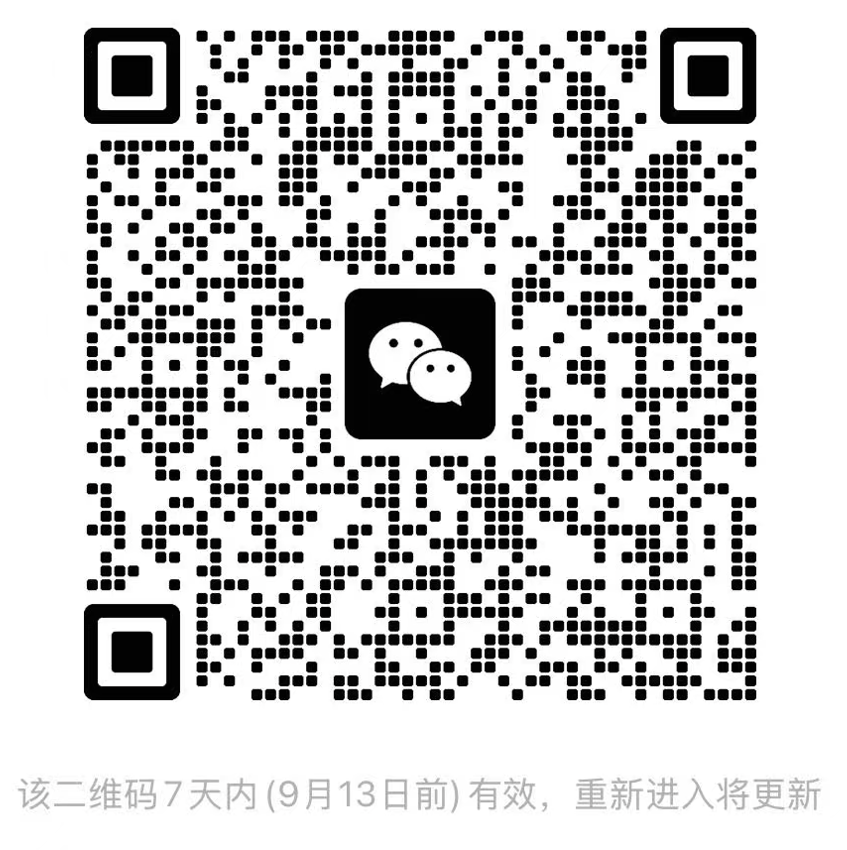
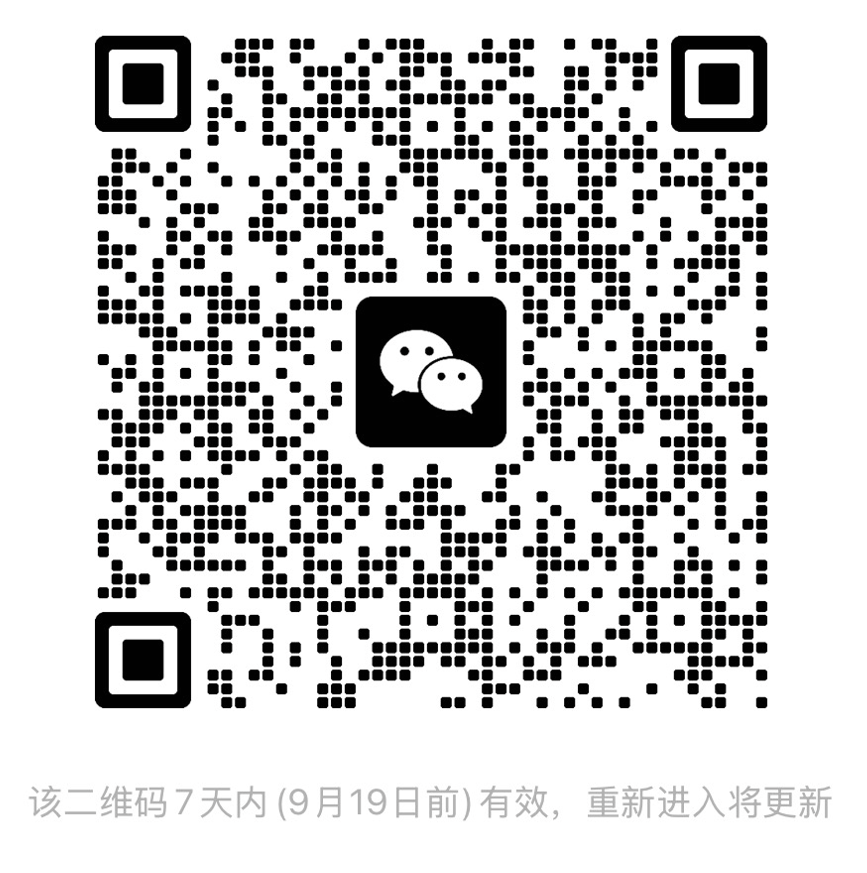
docs: 同步更新中英文 README 与 FAQ 文档
1. README & README_EN：增补元数据物理巡检与 Schema 漂移治理精炼摘要（直连体检零 Token 消耗、报错自愈反哺、整表缺失与类型校准）；
2. README & README_EN：对齐云原生 K8s Pod 安全沙箱特性（免 Docker Socket、PVC subPath 隔离、浮标秒级监控）；
3. README & README_EN：增补双向 MCP 开放插件生态（出站调用自动透传当前用户身份上下文保障多租户隔离，入站提供 NanZi Platform MCP 资源服务与 OAuth2 服务台）；
4. FAQ：新增 4.2.10 元数据物理结构巡检与 Schema 漂移闭环治理专题，补全 7.3.6 K8s 沙箱输入框 Pod 浮标与一键 RBAC 权限自检指南；
5. 更新社区微信群二维码资源。

diff --git a/README_EN.md b/README_EN.md
@@ -21,14 +21,14 @@
 
 The platform revolves around the following core capability matrix:
 *   💬 **Deep Interactive Dialogue**: High-performance streaming chat with **intelligent delegation through the default Main agent**, **expert mode / @mention direct selection**, and multi-agent synthesis. **Tool preflight** nudges the model to call tools; integrated `ask_user_question` smart cards (single/multi-choice, text input), **Todo task lists** with step-by-step progress tracking, and skill auto-scan with permission suspend/resume.
-*   🛡 **Multi-Policy Sandbox & Isolation**: Native support for **Local** (host process), **Docker** (isolated private container), **E2B** (cloud sandbox), and **SSH** (remote secure channel) policies. Docker containers mount user workspaces at **identical absolute paths** for seamless canvas preview and edit persistence; idle auto-reaper (30m timeout), graceful shutdown cleanup, and chat popover control with **live second-by-second uptime tracking**.
+*   🛡 **Multi-Policy Sandbox & Isolation**: Native support for **Local** (host process), **Docker** (isolated private container), **K8s** (Kubernetes native Pod sandbox, recommended for enterprise cloud-native environments without Docker Socket), **E2B** (cloud sandbox), and **SSH** (remote secure channel) policies. Docker and K8s modes support user workspace **same-path/subPath mounting** for seamless canvas preview and edit persistence; idle auto-reaper (30m timeout), graceful shutdown cleanup, and chat popover control with **live second-by-second uptime tracking**.
 *   🌐 **Persistent Browser & Live Takeover**: Server-side persistent browser sessions with complete automation toolsets (navigation, click, fill, human-like trajectory slider dragging, scroll, keys, snapshot, file upload, multi-tabs); frontend right-side **live Web interactive drawer** with stream rendering and human-in-the-loop takeover.
-*   📊 **Native Enterprise ChatBI & Self-Healing**: Data sources, metadata sync, case-library Few-Shot, SQL self-healing, and optional **sql_plan** structured plans; **My Data Portal** via `/dataset_portal`; direct physical SQL and golden report stash.
+*   📊 **Native Enterprise ChatBI & Self-Healing**: Data sources and metadata management, **metadata consistency inspection & schema drift governance**, case-library Few-Shot, SQL self-healing, and optional **sql_plan** structured plans; **My Data Portal** via `/dataset_portal`; direct physical SQL and golden report stash.
 *   🧠 **Long-Term & Cross-Session Memory**: LTM preference injection plus on-demand **`memory_search`** over session/daily summaries; Memory Management Console for vector ops and governance; full-lifecycle Redis memory and compaction logs **TTL extended to 30 days**.
 *   📊 **Context Breakdown & Overflow Compaction**: Fine-grained Token breakdown across System Prompt, Tools Schema, Memory/History, and Current Turn; smart two-stage structured overflow compaction (`_structured_tool_block` with multimodal tag preservation).
 *   🧩 **Code Canvas & Workspace Execution**: Stream, stop, and inspect Python / Shell runs inside a private user workspace; `publish_generated_file` for downloadable artifacts.
 *   📚 **Knowledge Base Center (RAG & Knowledge Hub)**: Tree document management, recall testing, semantic merge; **Knowledge executor** auto-retrieves before ReAct with citation cards.
-*   🔌 **Open Plugin Ecosystem (MCP Integration)**: Fully compliant with Anthropic's Model Context Protocol to connect Jira, Email, GitLab, etc.
+*   🔌 **Bi-Directional Enterprise MCP Ecosystem (Platform & Client MCP)**: Automatically forwards authenticated user context when calling outbound external MCP tools to guarantee multi-tenancy and data permission isolation; natively provides **NanZi Platform MCP** resource server (OAuth2 auth & Service Desk) allowing external clients like Cursor and Claude Desktop to invoke NanZi agents, chats, and metadata directly.
 *   🔌 **Flexible Embedded Integration**: Embed Chat SDK for enterprise portals with existing auth, tenant isolation, granular RBAC, and watermark compliance.
 *   ⏰ **Task Scheduler & Multi-Channel Notifications**: APScheduler with Redis execution locks and an environment-controlled scheduler node for Cron/periodic/one-off tasks under agent identities; multi-channel alerts (**WeCom, DingTalk, Feishu, Email, Webhook, and In-App Inbox**); auto-cleans thinking streams for clean deliveries with overflow protection and ChatBI golden report threshold alerts.
 *   🛠 **Debug & Trace**: Decision chains, tool calls, SQL plan cards; CSV/Excel export for structured query results.
@@ -115,10 +115,11 @@ The platform revolves around the following core capability matrix:
 *   **OpenClaw🦞 gateway**: Passes `AUTH_CONTEXT` (identity, channel, accessible datasets) for tenant isolation.
 
 ### 2. 🛡 Multi-Policy Sandbox & Execution Isolation
-*   **Four sandbox policies**: Native support for `Local` (host process), `Docker` (private container), `E2B` (cloud sandbox), and `SSH` (remote secure host).
-*   **Docker same-path workspace mounting**: User workspaces are mounted to identical absolute paths inside the container, mapping `/workspace/...` logical paths back to host files with real-time canvas preview and editing.
-*   **Automated lifecycle management**: 30-minute idle reaper, graceful shutdown container cleanup, and prebuild enhancements.
-*   **Chat input popover console**: Live status badge (🟢Running/🟡Starting/🔴Error/⚪Stopped), assigned container ID, **second-by-second live runtime counter**, and manual start/refresh controls.
+*   **Five sandbox policies**: Native support for `Local` (host process), `Docker` (private container), `K8s` (Kubernetes native Pod sandbox), `E2B` (cloud sandbox), and `SSH` (remote secure host).
+*   **Cloud-native K8s Pod sandbox**: Eliminates the need to mount host Docker Sockets (`/var/run/docker.sock`) in Kubernetes production clusters. Dynamically launches isolated Pods via K8s API with shared PVC `subPath` workspace mounting, meeting enterprise and financial security compliance.
+*   **Same-path / subPath workspace mounting**: User workspaces are mounted seamlessly inside Docker containers or K8s Pods with real-time canvas preview and editing.
+*   **Automated lifecycle management**: 30-minute idle reaper, graceful shutdown cleanup, and concurrency ref-count sharing.
+*   **Chat input popover console**: Live status badge (🟢Running/🟡Starting/⚪Idle), assigned Pod/container ID, **second-by-second live runtime counter**, and manual restart/shutdown controls with confirmation dialogs.
 
 ### 3. 🌐 Persistent Browser & Live Takeover
 *   **Comprehensive automation toolkit**: Navigation, element click, text input, human-like trajectory slider dragging, smart wait, keypress, full-page scroll, file upload, screenshots, and multi-tab management.
@@ -136,10 +137,12 @@ The platform revolves around the following core capability matrix:
 *   **Self-healing & sql_plan**: SQL error repair rounds; optional `enable_sql_plan` for high-risk queries with structured `<sql_plan>` cards in the UI.
 *   **Clarification short-circuit**: Non-data chit-chat clarified at classification without forcing SQL.
 *   **Data sources**: Visual Oracle / ClickHouse / MySQL management, DDL sync, golden report stash, and direct physical SQL execution.
+*   **Metadata inspection & schema drift governance**: Physical warehouse consistency health-checks (zero Token cost) and runtime error self-healing feedback; detects table/column drops and type mismatches with one-click human-in-the-loop calibration, Changelog diff audit, and multi-channel scheduled alerts.
 
-### 6. 🔌 Open Plugin Ecosystem (MCP Integration)
-*   **Native MCP Support**: Fully compliant with Anthropic's Model Context Protocol.
-*   **Infinite Extensibility**: Seamlessly connect to external productivity tools like Jira, Email, GitLab, etc. via MCP servers without modifying core code.
+### 6. 🔌 Bi-Directional Open Plugin Ecosystem (MCP Integration)
+*   **Outbound calls with user context forwarding**: When agents invoke external MCP tools, the protocol layer **automatically passes through the authenticated user context** (identity, role, tenant, and data scopes) to enforce downstream data permissions and operational audit trails.
+*   **NanZi Platform MCP inbound service**: Serves as a native MCP resource server with standard OAuth2 authentication and an administrative "MCP Service Desk", enabling external clients like Cursor, Claude Desktop, and third-party agents to discover and invoke NanZi-governed agents, conversations, and warehouse metadata directly.
+*   **Infinite ecosystem connectivity**: Connect enterprise productivity tools and multi-agent ecosystems seamlessly without modifying platform core code.
 
 ### 7. 📚 Deep Knowledge Enhancement & Integration (RAG & Knowledge Hub)
 *   **Knowledge workbench**: Tree document management, slice preview, recall testing, semantic merge, lifecycle audit.

diff --git a/README.md b/README.md
@@ -25,12 +25,12 @@
 *   💬 **深度交互式对话 (Dialogue & Co-Agent)**：极速流式响应，支持 **智能委派（默认进入 Main）** 与 **专家模式 / @提及直选**、多专家协同。内置 **工具预检** 促发模型主动调用工具；支持 `ask_user_question` 智能提问卡（单选/多选/输入）、**Todo 任务清单** 分步执行与常驻跟踪；主助手支持 **Skill 自动扫描** 与权限挂起恢复。
 *   🛡 **多策略安全沙箱与隔离执行 (Multi-Policy Sandbox)**：原生支持 **Local**（本机进程）、**Docker**（私有容器隔离）、**K8s**（Kubernetes 原生 Pod 沙箱，云原生免 Docker Socket 安全推荐）、**E2B**（云端安全沙箱）、**SSH**（远端安全通道）五大执行策略；Docker 与 K8s 模式支持用户工作区**同路径/subPath 挂载**，支持在代码画布中直接打开预览并保存回物理文件；支持镜像预构建、空闲 30 分钟自动回收（Idle Reaper）、优雅停机清理及输入框浮标面板一键探测与**秒级运行时长监控**。
 *   🌐 **持久化浏览器会话与实时接管面板 (Persistent Browser & Live Takeover)**：服务端持久化浏览器会话与全套自动化工具（网页访问、点击、输入、拟人滑块轨迹拖拽、按键、滚动、截图与多标签）；前端右侧提供**实时 Web 交互面板**，支持快照串流渲染与无缝人机协同交互接管。
-*   📊 **原生企业级 ChatBI 与自愈分析 (ChatBI & Self-Healing)**：数据源与元数据管理、案例集 Few-Shot、SQL 自愈与 **sql_plan 结构化计划**；**我的数据门户**（`/dataset_portal`）个性化导航；支持直连物理 SQL 与黄金报表暂存订阅。
+*   📊 **原生企业级 ChatBI 与自愈分析 (ChatBI & Self-Healing)**：数据源与元数据管理、**元数据一致性巡检与 Schema 漂移治理**、案例集 Few-Shot、SQL 自愈与 **sql_plan 结构化计划**；**我的数据门户**（`/dataset_portal`）个性化导航；支持直连物理 SQL 与黄金报表暂存订阅。
 *   🧠 **长期记忆与跨会话回顾 (Memory & LTM)**：LTM 偏好注入 + 内置 `memory_search` 按需检索会话/每日摘要；记忆管理中心提供向量检索运维与数据治理；全链路 Redis 会话记忆与压缩日志 **TTL 全面升级为 30 天**。
 *   📊 **上下文分项拆解观测与溢出智能压缩 (Context Observability & Compaction)**：精准实时拆解 System Prompt、Tools Schema、Memory/History 与 Current Turn 四大项 Token 占比；支持自动水位线告警与两阶段结构化压缩（`_structured_tool_block` 精准提炼、保留多模态附件标记）。
 *   🧩 **代码画布与工作区执行 (Code Canvas & Workspace)**：支持 Python / Shell 代码的流式运行、停止、输出回传与私有工作区文件预览；支持 `publish_generated_file` 智能工件发布与有效期管理。
 *   📚 **可视化知识库管理中心 (RAG & Knowledge Hub)**：非结构化文档树形管理、召回测试、语义合并；**Knowledge 执行器**在 ReAct 前自动检索并注入引用。
-*   🔌 **开放插件生态 (MCP Integration)**：遵循 Anthropic Model Context Protocol 标准，无缝连接 Jira、Email、GitLab 等外部生产力系统。
+*   🔌 **双向企业级 MCP 生态 (Platform & Client MCP)**：出站调用外部 MCP 工具时**自动透传用户身份上下文**保障多租户与权限隔离；同时原生对外提供 **NanZi Platform MCP** 服务（OAuth2 鉴权与服务台），支持 Cursor、Claude Desktop 等外部客户端免改造调用 NanZi 智能体、会话与元数据。
 *   🔌 **灵活的嵌入式 (Embed) 集成**：通过嵌入式 Chat SDK 快速集成至企业业务系统，对接现有鉴权体系，实现租户隔离、RBAC 权限与水印安全合规。
 *   ⏰ **自动化任务中心与多通道推送 (Task Scheduler & Notifications)**：APScheduler + Redis 执行期锁，支持通过环境变量指定唯一调度节点，模拟智能体身份自主执行周期（Cron）、定时与间隔任务；支持 **多通道智能触达**（企业微信、钉钉、飞书、邮件、自定义 Webhook 及站内信通知中心）；内置自动剥离思考过程（纯净业务摘要推送）、超长截断保护与黄金报表异常阈值告警。
 *   🛠 **全链路 Debug 与 Trace**：决策链、工具调用、SQL 计划卡片可视化；结构化查数结果 CSV/Excel 导出。
@@ -147,10 +147,12 @@
 *   **元数据业务导航**：字段与口径回答基于授权 Schema 生成指标、维度和可执行问题；澄清候选不使用模型臆造字段。
 *   **分析交付闭环**：查询结果可一键生成证据化 Markdown/Word 业务简报，或转为黄金报表订阅，配置阈值、变化率、连续命中和无数据告警。
 *   **数据源管理**：可视化管理 Oracle / ClickHouse / MySQL 等连接，支持 DDL 抓取与连接别名唯一校验；支持黄金报表暂存与直连物理 SQL 执行。
+*   **元数据巡检与 Schema 漂移治理**：直连物理数仓定期体检（零 Token 消耗）与运行时报错自动反哺；精准识别表/字段缺失与类型不匹配，支持一键人机协同校准、变更日志 Diff 审计与多通道告警推送。
 
-### 6. 🔌 开放插件生态 (MCP Integration)
-*   **原生支持 MCP**：遵循 Anthropic 的 Model Context Protocol。
-*   **无限扩展**：无需修改核心代码，即可通过 MCP 服务器连接 Jira、Email、GitLab 等外部生产力工具。
+### 6. 🔌 双向开放插件生态 (MCP Integration)
+*   **出站连接与用户上下文透传**：智能体调用外部 MCP 工具时，在协议层**自动透传当前登录用户身份上下文**（用户、角色、租户与数据范围），确保下游外部系统实施精准的多租户隔离与操作审计。
+*   **NanZi Platform MCP 对外服务**：平台原生作为 MCP 资源服务端，支持标准 OAuth2 鉴权与「MCP 服务台」管理；使 Cursor、Claude Desktop 等外部客户端可直接检索与调用 NanZi 纳管的智能体、会话与数仓元数据。
+*   **无限生态连接**：无需修改平台核心代码，即可双向对接生产力系统与多 Agent 协作生态。
 
 ### 7. 📚 深度知识增强与集成 (RAG & Knowledge Hub)
 *   **一站式知识库管理**：树形文档管理、切片预览、召回测试、语义合并与生命周期审计。
